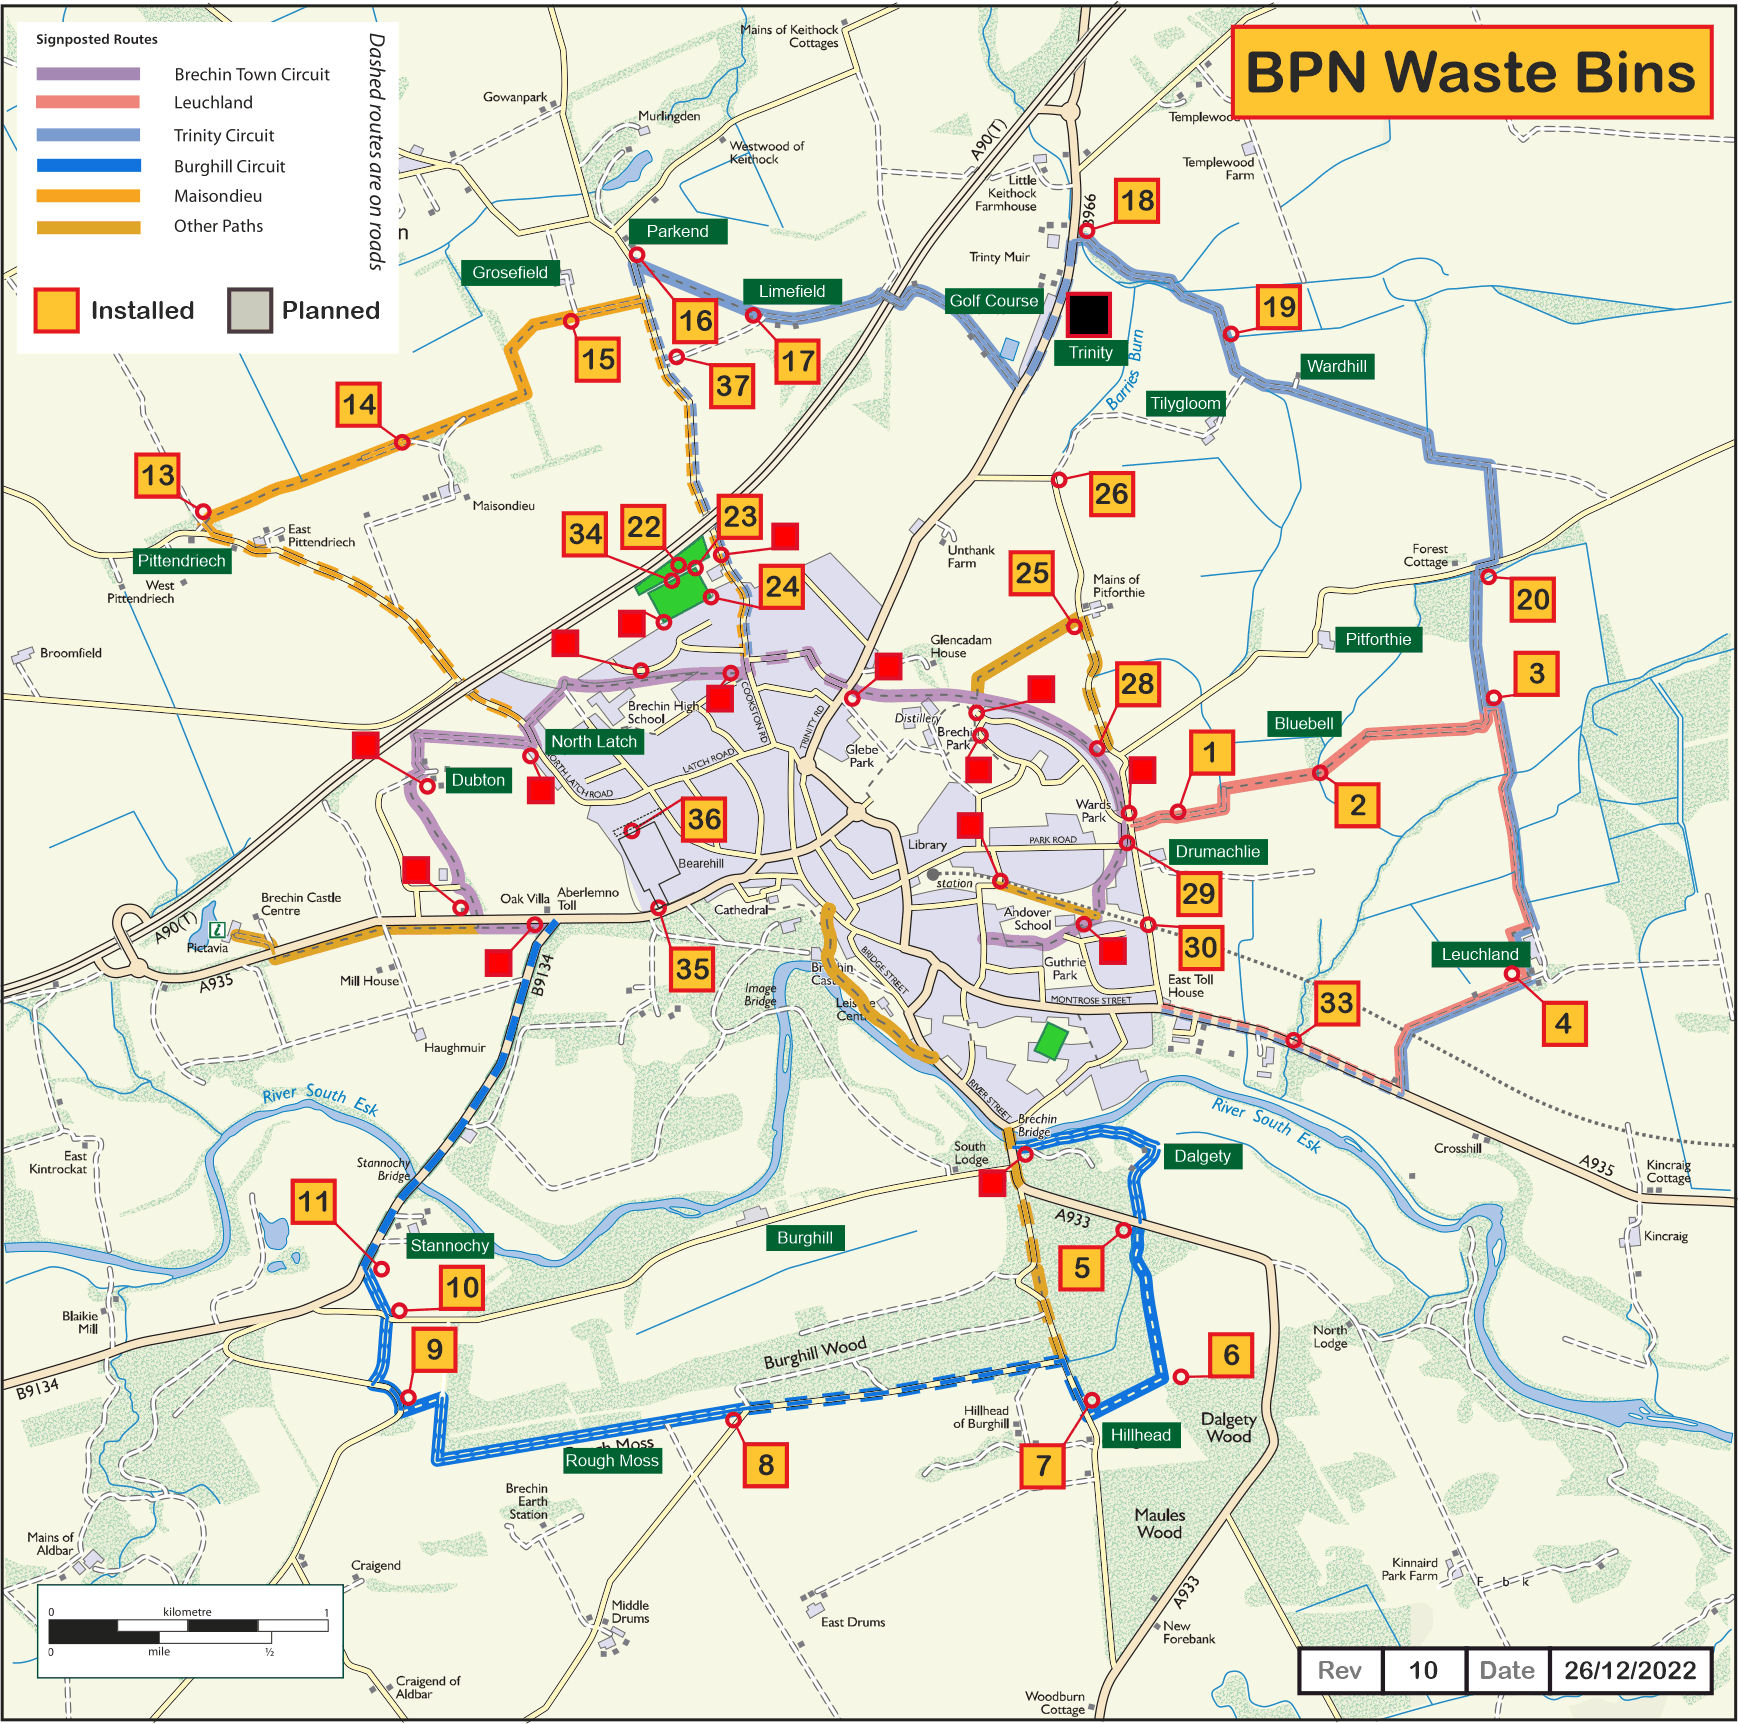
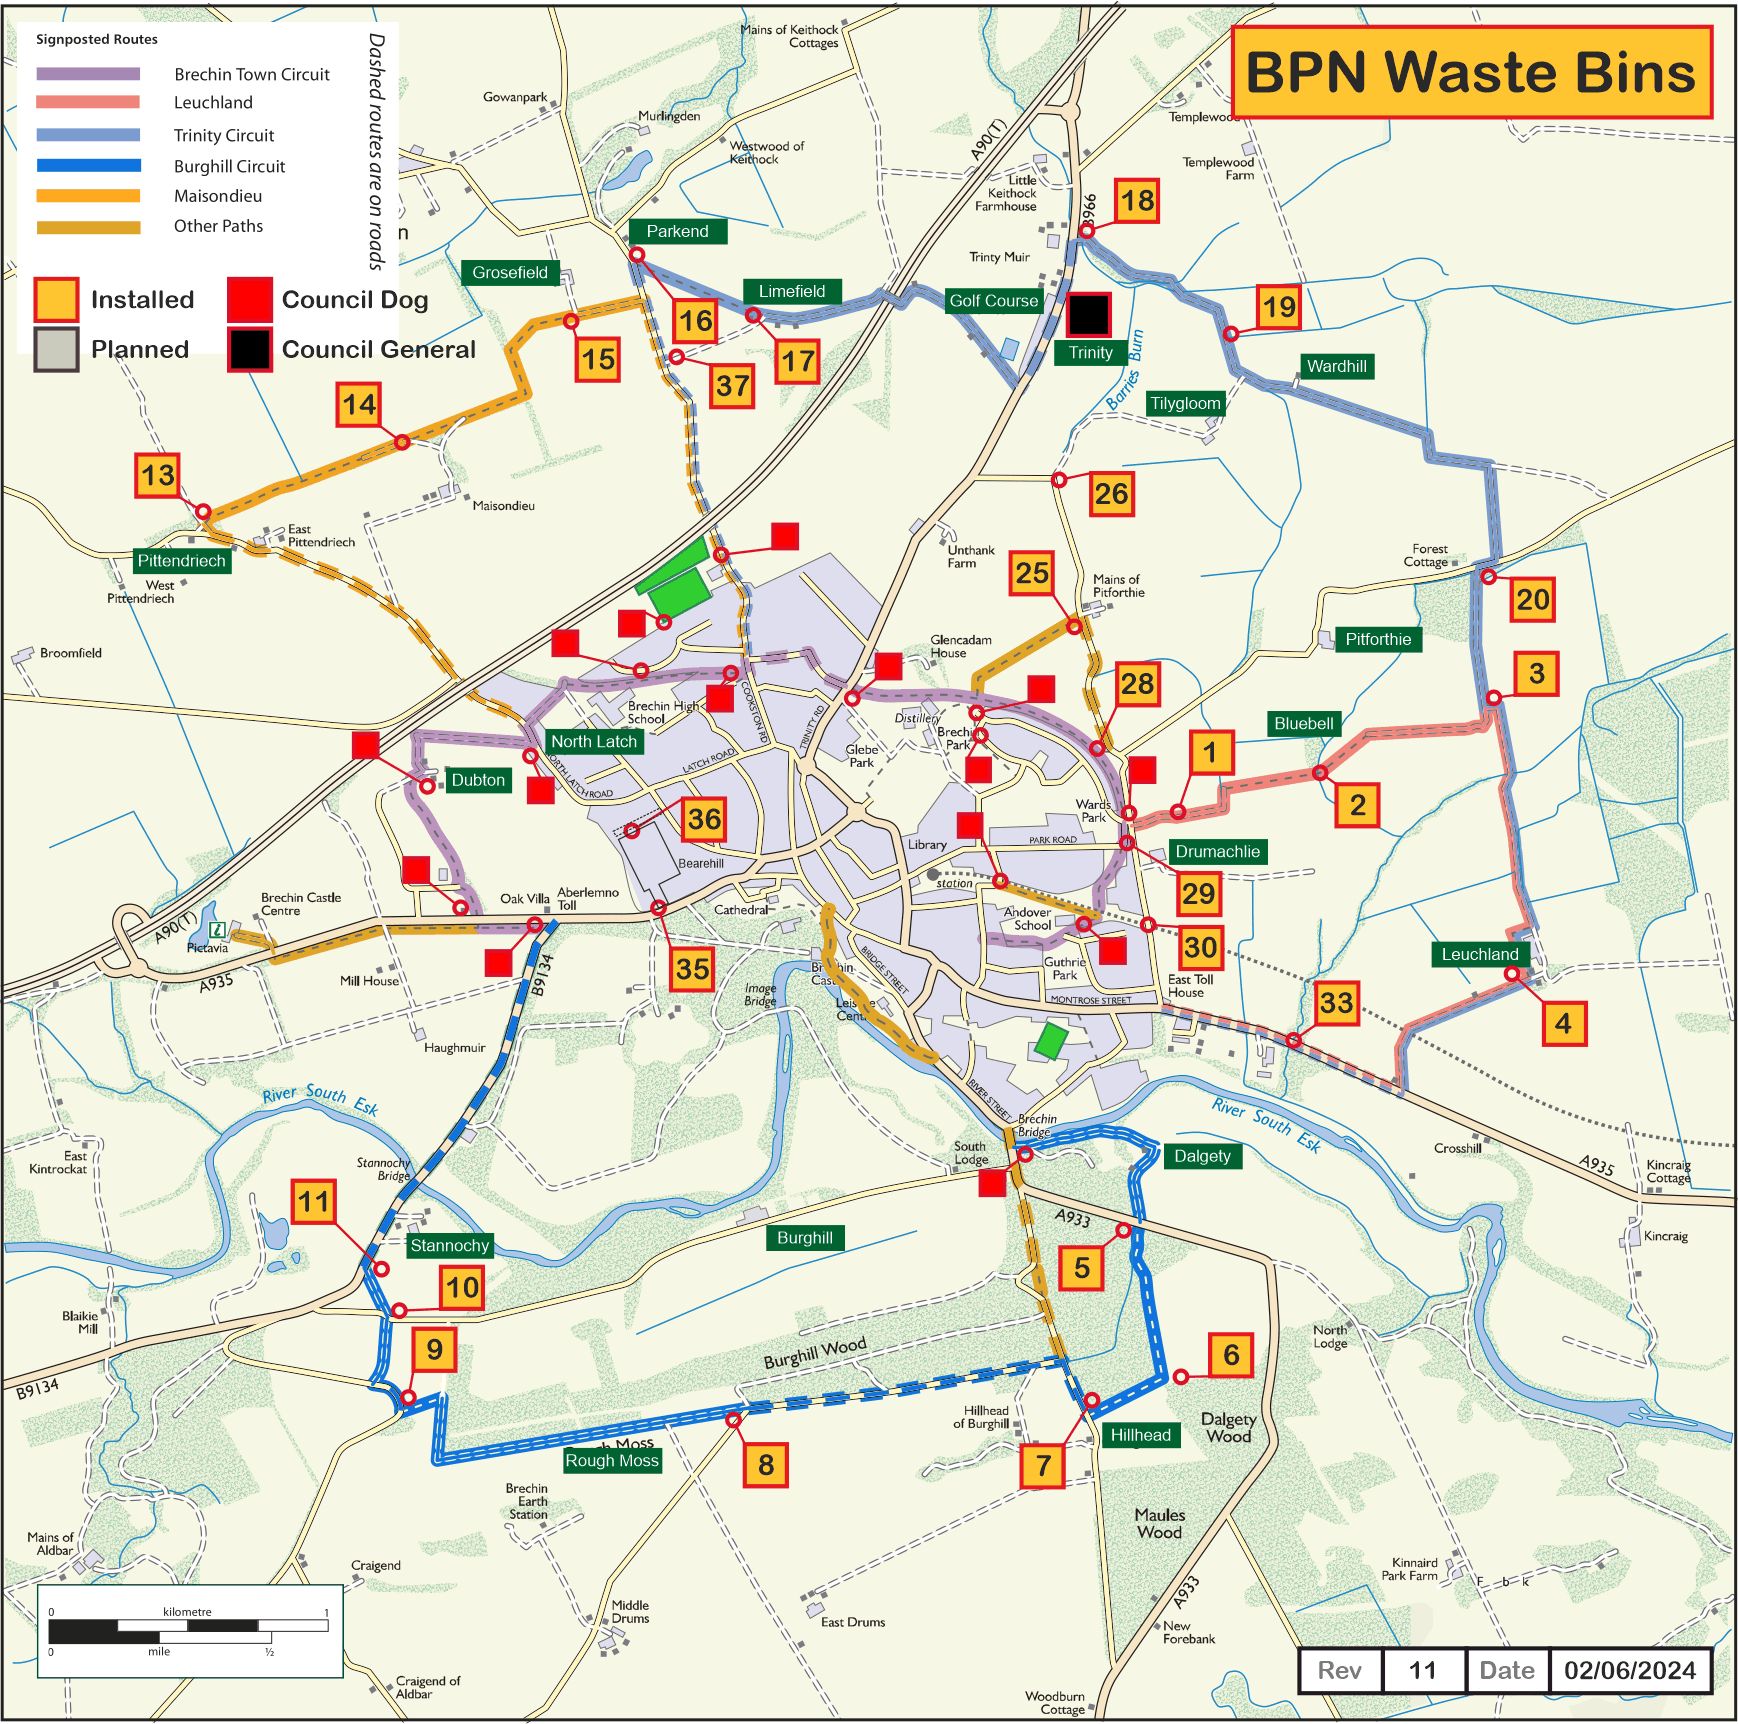
#9 Added new page and linked from main stats page.

Changed region(s): [[0.0, 0.1537, 0.2796, 0.2152], [0.3107, 0.2767, 0.4661, 0.3689], [0.901, 0.953, 0.9321, 0.9838]]

diff --git a/bpn_stats_bin.php b/bpn_stats_bin.php
@@ -1,0 +1,318 @@
+<?php 
+include_once 'bpn_db.php';
+
+$person = NULL; if(!empty($_GET["person"])) $person = $_GET["person"];
+$period = 0; if(!empty($_GET["period"])) $period = $_GET["period"];
+$bin_no = NULL; if(!empty($_GET["bin_no"])) $bin_no = $_GET["bin_no"];
+?>
+<html>
+<head>
+<!-- Google tag (gtag.js) -->
+<script async src="https://www.googletagmanager.com/gtag/js?id=G-MPXXSQYB9E"></script>
+<script>
+  window.dataLayer = window.dataLayer || [];
+  function gtag(){dataLayer.push(arguments);}
+  gtag('js', new Date());
+
+  gtag('config', 'G-MPXXSQYB9E');
+</script>
+<title>Waste Bin Stats</title>
+<style>
+
+html {
+  height: 100vh;
+}
+
+body {
+  display: flex;
+  flex-direction: column;
+  flex-wrap: wrap;
+  flex-grow: 1;
+}
+
+h1, h2, p, label, dt, td, th {
+  font-family: "Arial";
+}
+h1, label, dt {
+  font-size: 4vw;
+}
+h2 {
+  font-size: 3.5vw;
+}
+td, th {
+  font-size: 3.5vw;
+}
+input[type=radio] {
+  border: 0px;
+  width: 4em;
+  height: 4em;
+}
+
+span.bin {
+  background-color: #FCC135;
+  color: black;
+  padding-left: 0.5vw;
+  padding-right: 0.5vw;
+  border: 5px solid #E31E24;
+  font-size: 4vw;
+}
+
+span.binname {
+  background-color: #006633;
+  color: white;
+  padding: 0.5vw;
+  font-size: 4vw;
+}
+
+span.contents {
+  color: #E31E24;
+}
+
+input[type=submit] {
+  background-color: #006633;
+  border: none;
+  color: white;
+  padding: 20px;
+  text-align: center;
+  text-decoration: none;
+  display: inline-block;
+  font-size: 6vw;
+  margin: 4px 2px;
+  border-radius: 12px;
+}
+
+dt {
+   text-indent: -12vw;
+   padding-left: 12vw;
+   padding-bottom: 1vw;
+}
+
+#div {
+  height: 44vh;
+  margin: auto;
+}
+
+#chrtBin, #chrtBin {
+  width: 80vw;  
+}
+
+#buttons {
+  margin: auto;
+  padding-top: 1vh;
+}
+
+.button {
+  background-color: #046DFF;
+  border: none;
+  color: white;
+  padding: 10px;
+  text-align: center;
+  text-decoration: none;
+  display: inline-block;
+  font-size: 12px;
+  margin: 5px 10px 10px 10px;
+  border-radius: 20px;
+}
+.button:hover {
+  background-color: #046DAA;
+}
+
+
+</style>
+<script src="https://cdn.jsdelivr.net/npm/chart.js"></script>
+<script>
+  function refreshPeriod(period) {
+    const urlPieces = [location.protocol, '//', location.host, location.pathname]
+    let url = urlPieces.join('')
+    top.location.href=url + "?bin_no=" + <?=$bin_no?> + "&period=" + period;
+  }
+  function refreshAll() {
+    const path = location.pathname.substring(0, location.pathname.lastIndexOf('/')) + "/";
+    const urlPieces = [location.protocol, '//', location.host, path, 'bpn_stats.php']
+    top.location.href=urlPieces.join('');
+  }
+</script>
+</head>
+
+<body>
+
+<div id="div">
+  <canvas id="chrtBin"></canvas>
+</div>
+
+<div id="buttons">
+<input type=button class="button" id="stats_all" name="stats_all" value="All Stats" onClick="refreshAll();">
+<input type=button class="button" id="period_all" name="period_all" value="All time" onClick="refreshPeriod(0);">
+<input type=button class="button" id="period_1y" name="period_1y" value="1 year" onClick="refreshPeriod(12);">
+<input type=button class="button" id="period_6m" name="period_6m" value="6 months" onClick="refreshPeriod(6);">
+<input type=button class="button" id="period_3m" name="period_3m" value="3 months" onClick="refreshPeriod(3);">
+</div>
+
+<div id=debug></div>
+
+<script>  
+const chartColors = {
+    red: 'rgb(255, 99, 132)',
+    orange: 'rgb(255, 159, 64)',
+    yellow: 'rgb(255, 205, 86)',
+    green: 'rgb(75, 192, 192)',
+    blue: 'rgb(54, 162, 235)',
+    purple: 'rgb(153, 102, 255)',
+    grey: 'rgb(201, 203, 207)'
+};
+var ctx = document.getElementById('chrtBin');
+
+<?php
+$sql = 
+  "SELECT t.contents, t.emptied_month, SUM(t.empty_count) empty_count ".
+    "FROM ( ".
+      "SELECT ".
+        "IFNULL(e.contents, 'Full') contents, ".
+        "DATE_FORMAT(e.emptied_date, '%Y-%m') emptied_month, ".
+        "COUNT(*) empty_count ".
+      "FROM bin b ".
+      "INNER JOIN empty e ON e.bin_no=b.bin_no ".
+      "WHERE b.bin_no='" . $bin_no . "' " .
+      (($period==0) ? "" : "AND e.emptied_date >= (NOW() - INTERVAL " . $period . " MONTH) ") .
+      "GROUP BY e.contents, DATE_FORMAT(e.emptied_date, '%Y-%m') ".
+      "UNION ".
+      "SELECT c.contents, DATE_FORMAT(e.emptied_date, '%Y-%m') emptied_month, 0 empty_count ".
+      "FROM contents c, empty e ".
+      "WHERE e.bin_no='" . $bin_no . "' " .
+      (($period==0) ? "" : "AND e.emptied_date >= (NOW() - INTERVAL " . $period . " MONTH) ") .
+      "GROUP BY c.contents, DATE_FORMAT(e.emptied_date, '%Y-%m') ".
+      ") t ".
+    "GROUP BY t.contents, t.emptied_month " .
+    "ORDER BY t.contents, t.emptied_month";
+
+/*
+?>
+const debug = document.getElementById('debug');
+debug.innerText="<?=$sql?>";
+<?
+*/
+
+$result = $conn->query($sql);
+if ($result->num_rows > 0) {
+    $prev_list = "";
+    while ($row = $result->fetch_assoc()) {
+      if ($row["contents"] != $prev_list) {
+        if ($prev_list != "") echo "];\r\n";
+        echo "var " . strtolower($row["contents"]) . " = [" . $row["empty_count"]; 
+      } else {
+        echo ", " . $row["empty_count"]; 
+      }
+      $prev_list = $row["contents"];
+    }
+}
+echo "];\r\n";
+?>
+
+var bins = [
+<?php
+$sql = 
+  "SELECT DATE_FORMAT(e.emptied_date, '%Y-%m') emptied_month, COUNT(e.emptied_date) empty_count, ".
+  "(SELECT COUNT(*) FROM empty e2 ".
+  "WHERE e2.bin_no=b.bin_no " .
+   (($period==0) ? "" : " AND e2.emptied_date >= (NOW() - INTERVAL " . $period . " MONTH)"). ") total_count ".
+  "FROM bin b " .
+  "INNER JOIN empty e ON e.bin_no=b.bin_no ".
+  "WHERE b.bin_no='" . $bin_no . "' " .
+  (($period==0) ? "" : "AND e.emptied_date >= (NOW() - INTERVAL " . $period . " MONTH) ") .
+  "GROUP BY DATE_FORMAT(e.emptied_date, '%Y-%m') ".
+  "ORDER BY 3 DESC, 1";
+$result = $conn->query($sql);
+if ($result->num_rows > 0) {
+    $prev_list = "";
+    while ($row = $result->fetch_assoc()) {
+      if ($prev_list != "") echo ", ";
+      echo "'" . $row["emptied_month"] . "'"; 
+      $prev_list = $row["emptied_month"];
+    }
+}
+?>
+];
+
+var chrtBin = new Chart(ctx, {
+ type: 'bar',
+ data: {
+    labels: bins,
+    datasets: [
+    {
+      label: 'Overflowing',
+      data: overflowing,
+      backgroundColor: chartColors.red,
+    },
+    {
+      label: 'Full',
+      data: full,
+      backgroundColor: chartColors.orange,
+    },
+    {
+      label: 'Some',
+      data: some,
+      backgroundColor: chartColors.yellow,
+    },
+    {
+      label: 'None',
+      data: empty,
+      backgroundColor: chartColors.grey,
+    }
+  ]
+ },
+ options: {
+    plugins: {
+        title: {
+          display: true,
+<? if (empty($person)) {?>
+          text: "Empties by bin and status (only currently active)"
+<? } else { ?>
+          text: "Empties by bin and status (only currently active) for <?=$person?>"
+<? }?>
+        },
+    },
+    responsive: true,
+    scales: {
+      x: {
+        stacked: true,
+        grid: {
+          display: false
+        },
+        
+        ticks: {
+          minRotation: 90,
+          maxRotation: 90,
+          autoSkip: false,
+          callback: function(value, index, values) {
+            return this.getLabelForValue(value).split(" - ")[0];
+          }
+        }
+      },
+      y: {
+        stacked: true,
+        ticks: {
+          precision: 0
+        }
+      }
+    }
+ }
+})
+/*
+ctx.onclick = function(evt) {
+  const points = chrtBin.getElementsAtEventForMode(evt, 'nearest', { intersect: true }, true);
+
+  if (points.length) {
+    var firstPoint = points[0];
+    var label = chrtBin.data.labels[firstPoint.index];
+    var bin = label.split(" ");
+    refreshBin(bin[0]);
+  }
+}
+*/
+</script>
+
+<?
+$conn->close();
+?>
+</body> 
+</html>

diff --git a/bpn_stats.php b/bpn_stats.php
@@ -131,6 +131,12 @@ dt {
     let url = urlPieces.join('')
     top.location.href=url + "?person=" + person <?php echo (($period==0) ? "" : "+ \"&period=".$period . "\"")?>;
   }
+  function refreshBin(bin_no) {
+    const path = location.pathname.substring(0, location.pathname.lastIndexOf('/')) + "/";
+    const urlPieces = [location.protocol, '//', location.host, path, 'bpn_stats_bin.php']
+    let url = urlPieces.join('')
+    top.location.href=url + "?bin_no=" + bin_no <?php echo (($period==0) ? "" : "+ \"&period=".$period . "\"")?>;
+  }
 </script>
 </head>
 
@@ -208,8 +214,6 @@ if ($result->num_rows > 0) {
 ?>
 ];
 
-//const debug = document.getElementById('debug');
-//debug.innerText = "<?=$sql?>";
 
 var people = [
 <?php
@@ -436,6 +440,17 @@ var chrtBin = new Chart(ctx, {
     }
  }
 })
+
+ctx.onclick = function(evt) {
+  const points = chrtBin.getElementsAtEventForMode(evt, 'nearest', { intersect: true }, true);
+
+  if (points.length) {
+    var firstPoint = points[0];
+    var label = chrtBin.data.labels[firstPoint.index];
+    var bin = label.split(" ");
+    refreshBin(bin[0]);
+  }
+}
 </script>
 
 <?

diff --git a/bpn_empty.php b/bpn_empty.php
@@ -2,7 +2,7 @@
 include_once 'bpn_db.php';
 include_once 'bpn_util.php';
 
-$person = NULL; if(!empty($_GET["person"])) $person = $_GET["person"];
+$person = NULL; if(!empty($_GET["person"])) $person = TRIM($_GET["person"]);
 $bin_no = NULL; if(!empty($_POST["bin_no"])) $bin_no = $_POST["bin_no"];
 $contents = NULL; if(!empty($_POST["contents"])) $contents = $_POST["contents"];
 
